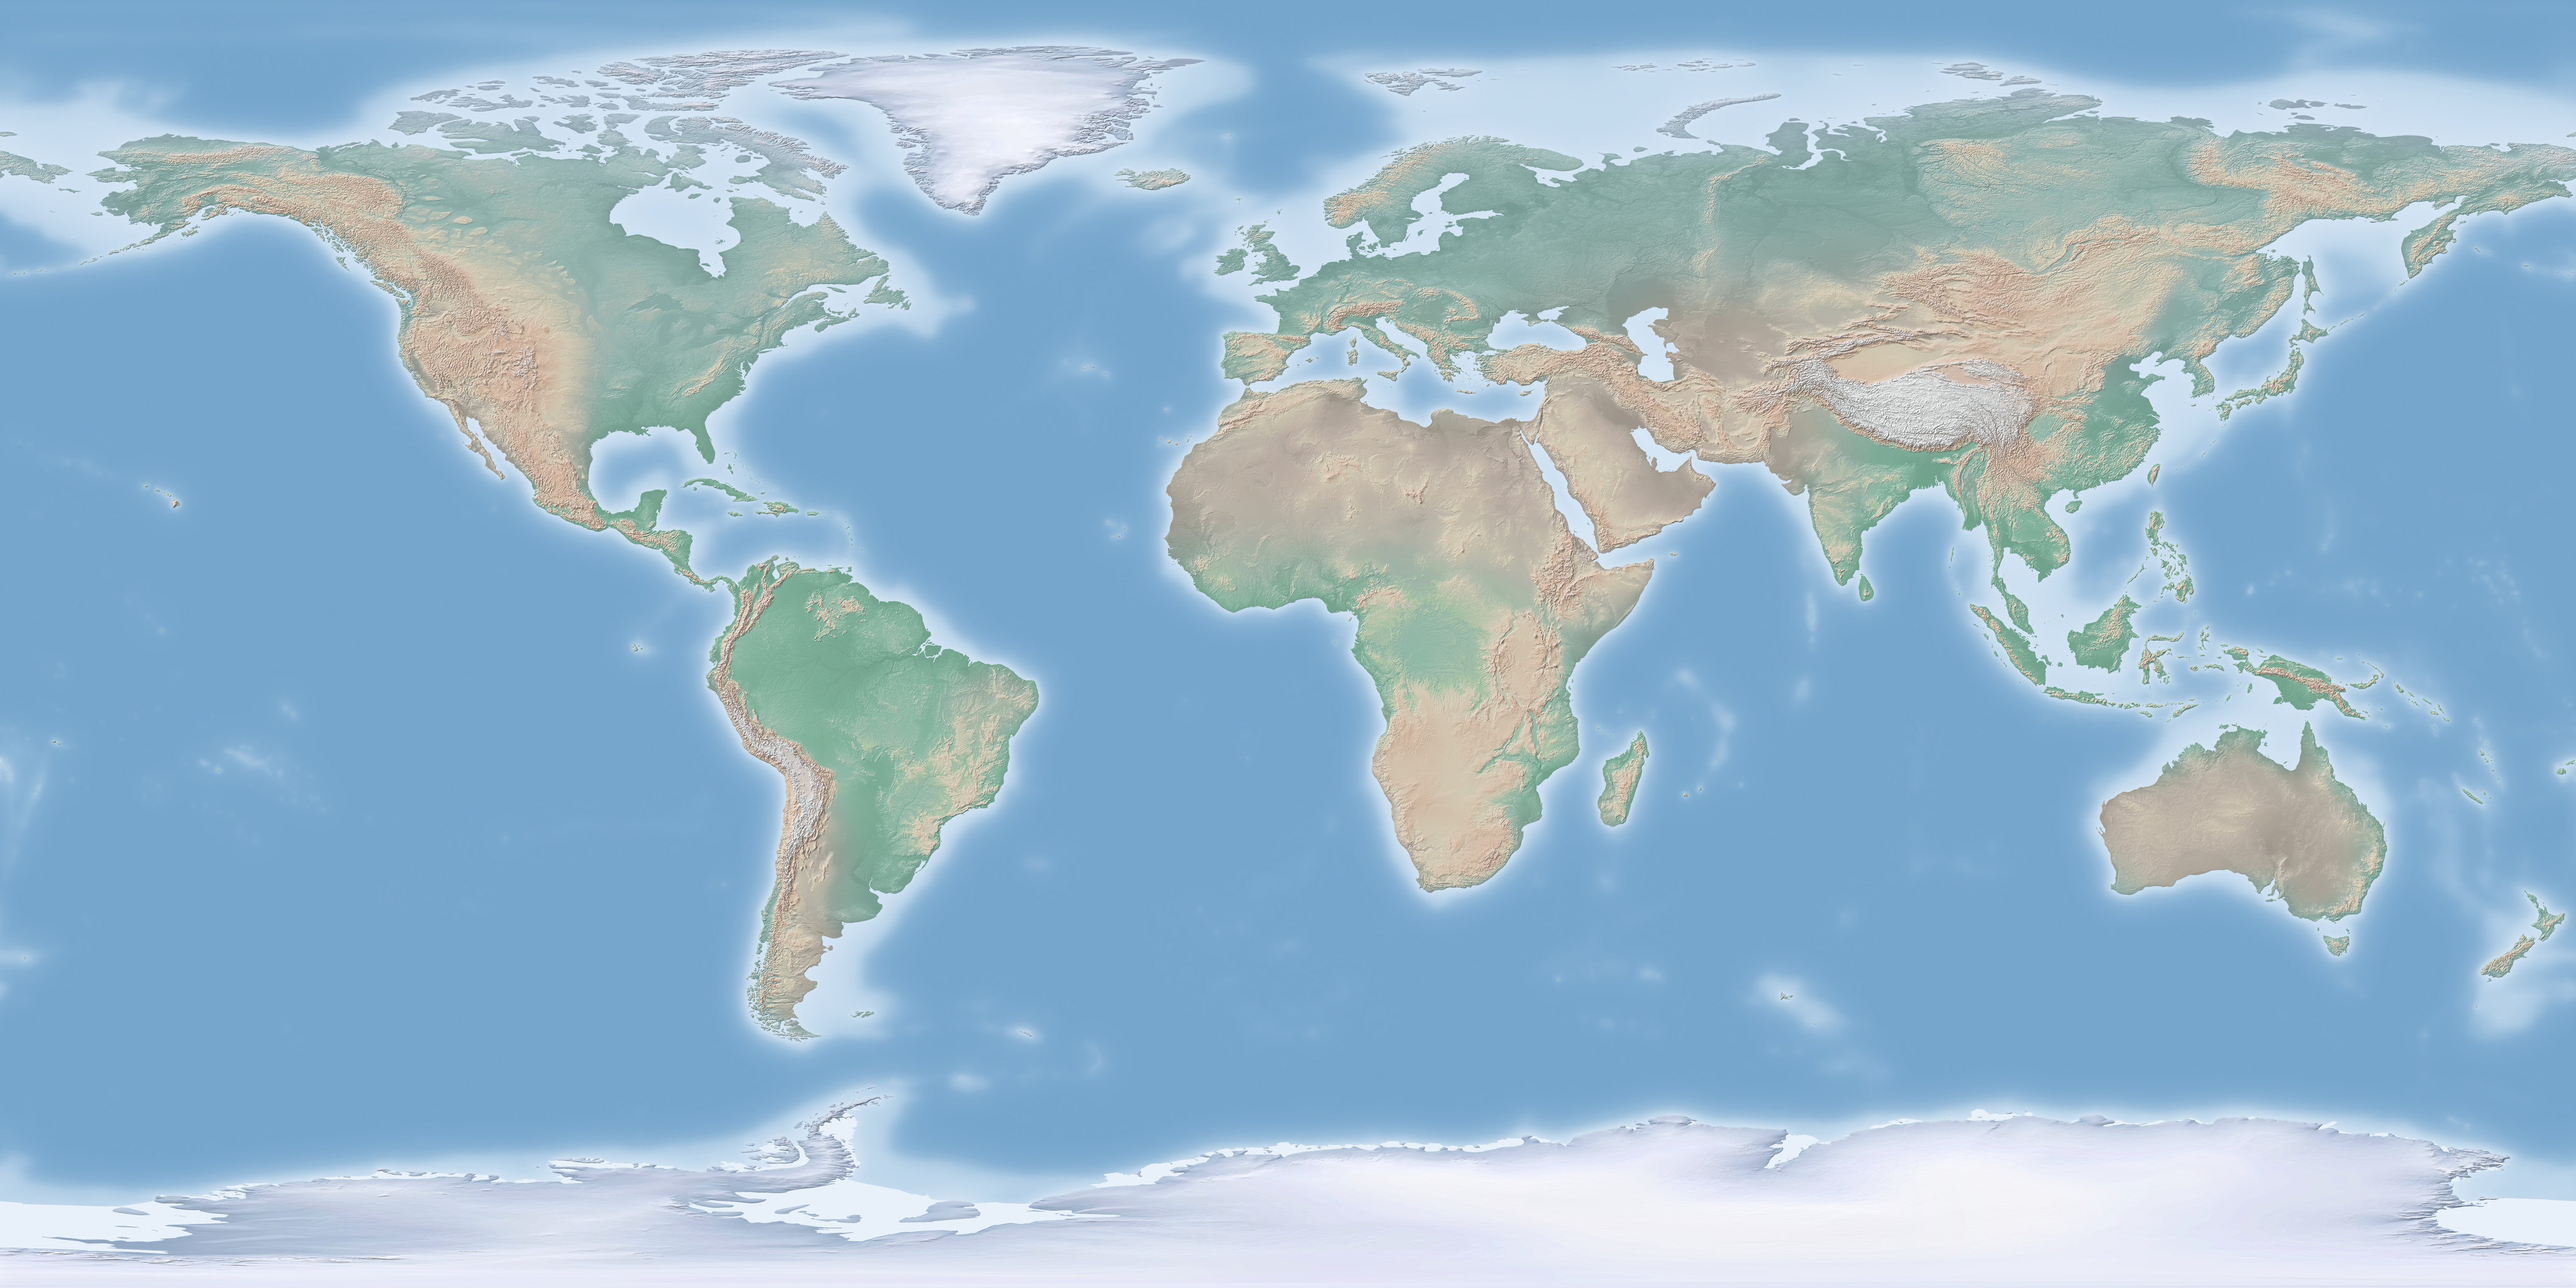
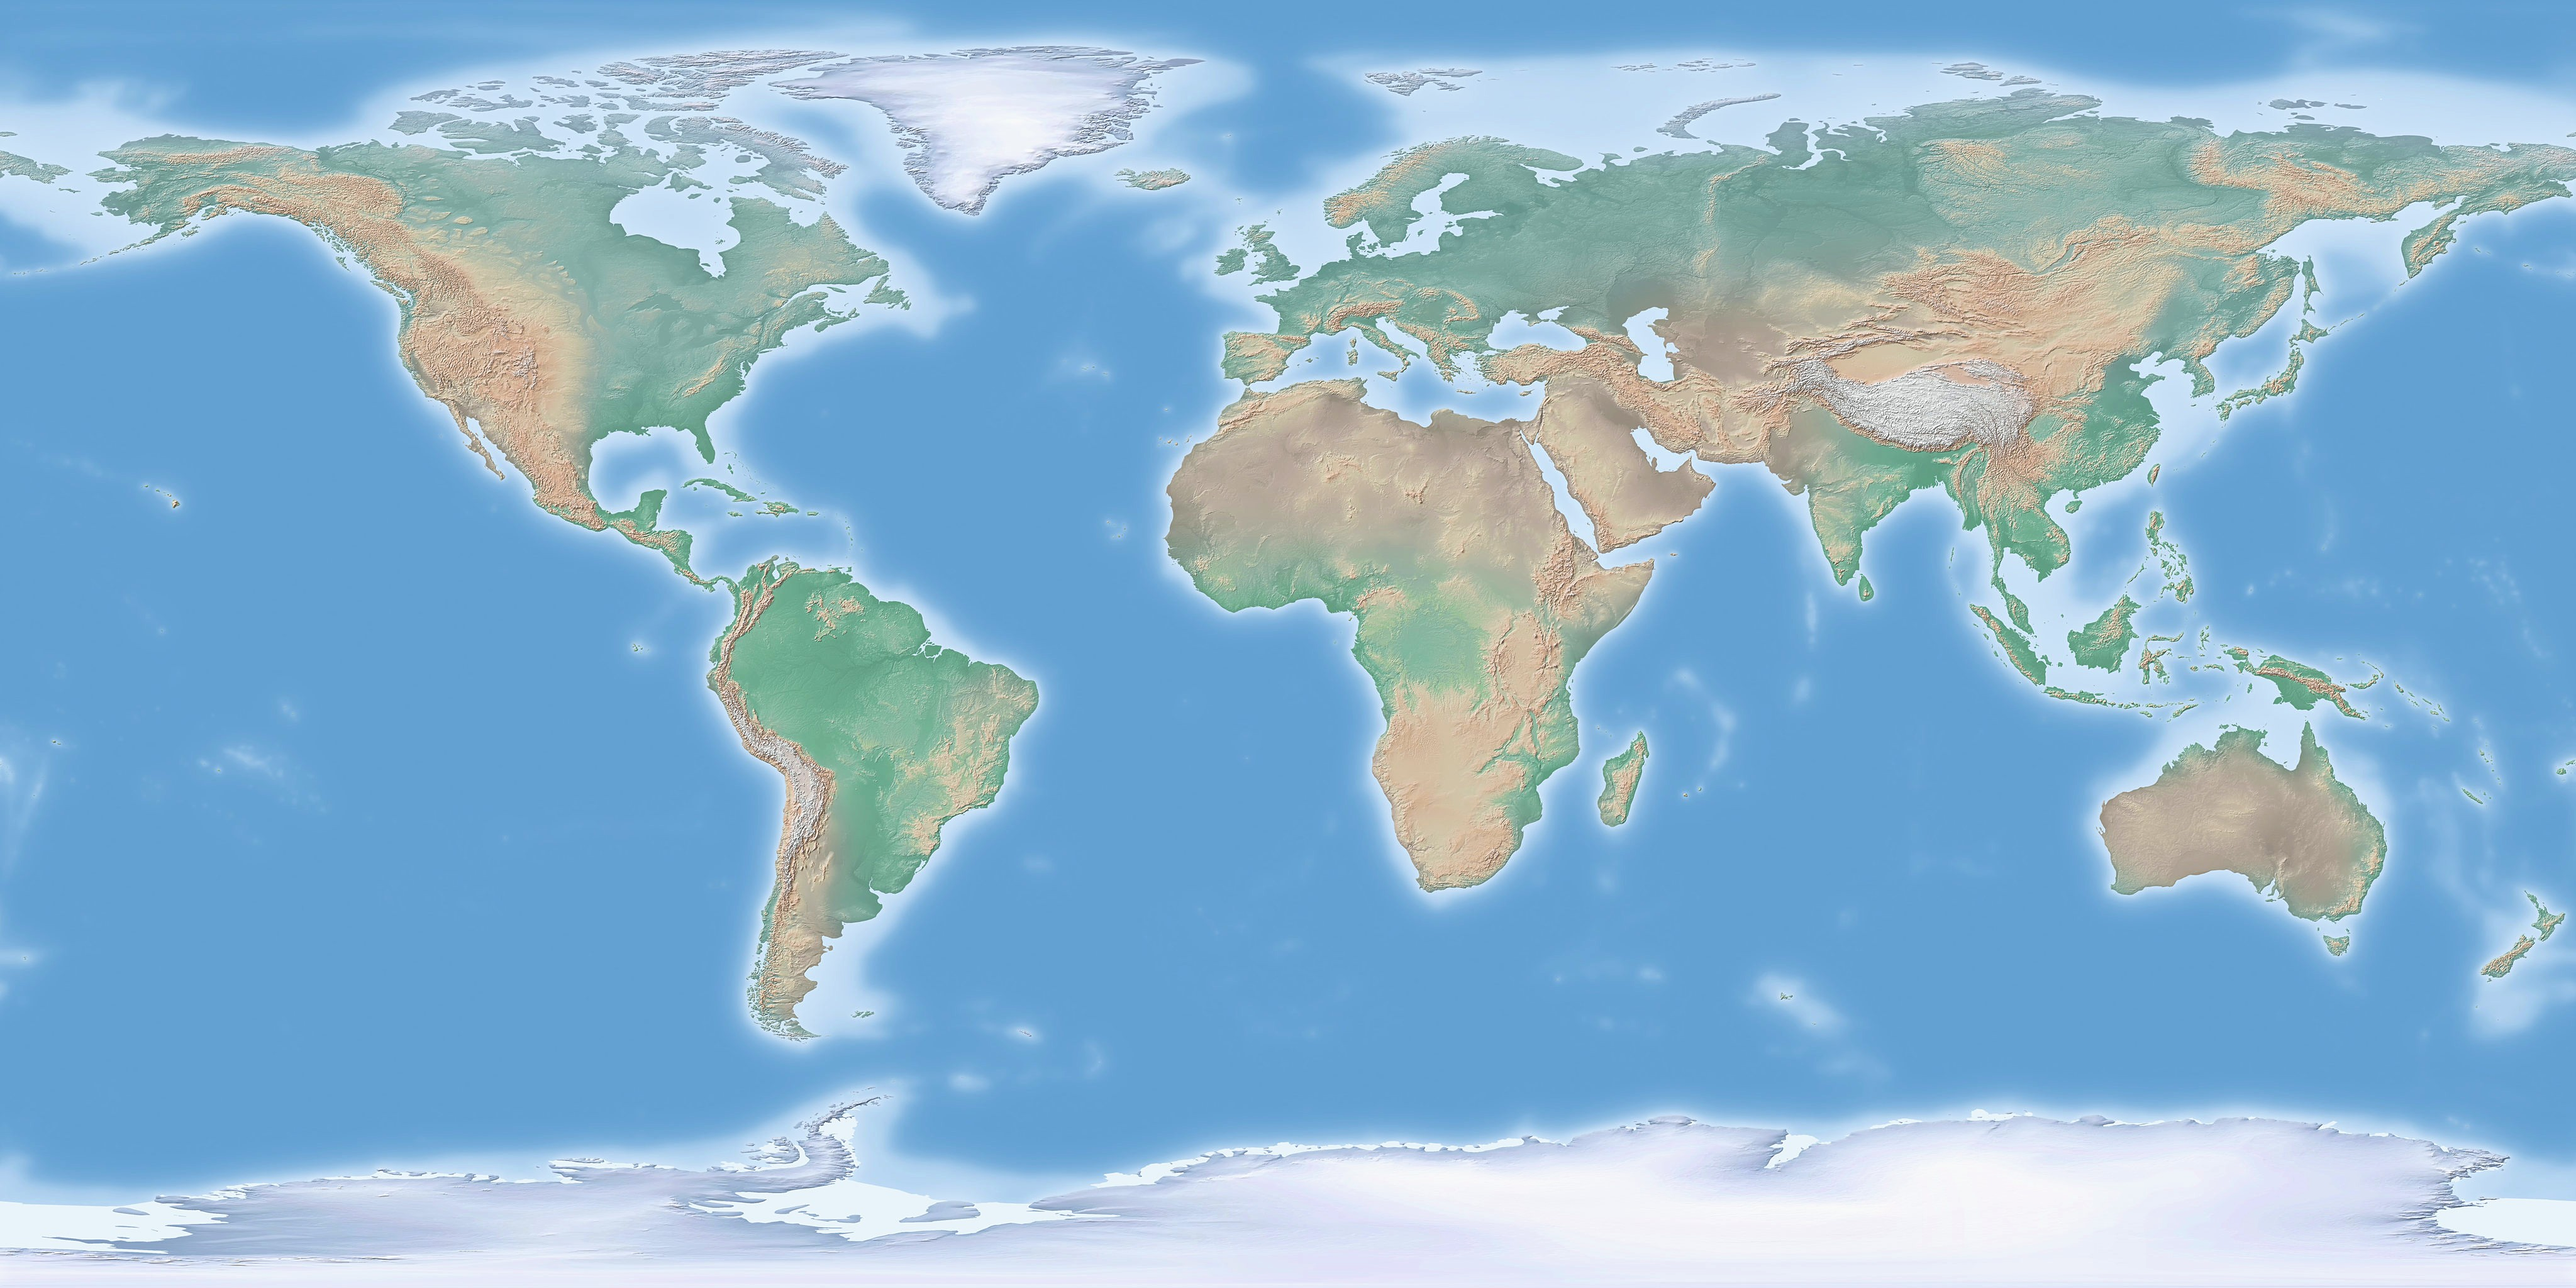
v18

diff --git a/index.html b/index.html
@@ -1135,12 +1135,29 @@ const MAP_STYLES = {
   terrain:{
     label:'Terrain', base:'map_terrain.jpg',
     url:(z,x,y)=>`https://server.arcgisonline.com/ArcGIS/rest/services/World_Topo_Map/MapServer/tile/${z}/${y}/${x}`,
-    max:19, credit:'Esri · USGS · NOAA · Base: Natural Earth'
+    max:19, credit:'Esri · USGS · NOAA · Base: Natural Earth',
+    // World_Topo_Map alone barely hints at elevation — it's built as a road
+    // atlas first. Esri's dedicated hillshade, multiplied on top, is what
+    // actually makes slopes and ranges read at a glance.
+    overlay:'terrain-relief', overlayBlend:'multiply', overlayAlpha:0.6
   },
   streets:{
     label:'Atlas', base:'map_atlas.jpg',
     url:(z,x,y)=>`https://server.arcgisonline.com/ArcGIS/rest/services/Canvas/World_Dark_Gray_Base/MapServer/tile/${z}/${y}/${x}`,
-    max:16, credit:'Esri · HERE · Garmin · Base: Natural Earth'
+    max:16, credit:'Esri · HERE · Garmin · Base: Natural Earth',
+    // The "Base" service is deliberately blank — Esri ships it as a canvas
+    // meant to be paired with a Reference layer carrying every label, road
+    // and border. Without it, it's just grey shapes, which is what made
+    // this style look broken.
+    overlay:'streets-labels', overlayBlend:'source-over', overlayAlpha:1
+  },
+  'terrain-relief':{
+    url:(z,x,y)=>`https://server.arcgisonline.com/ArcGIS/rest/services/Elevation/World_Hillshade/MapServer/tile/${z}/${y}/${x}`,
+    max:23
+  },
+  'streets-labels':{
+    url:(z,x,y)=>`https://server.arcgisonline.com/ArcGIS/rest/services/Canvas/World_Dark_Gray_Reference/MapServer/tile/${z}/${y}/${x}`,
+    max:16
   }
 };
 let mapStyle='satellite';
@@ -1384,20 +1401,37 @@ function drawTiles(force){
       const want=getTile(mapStyle,Z,wx,ty);
       if(want.__ready){
         try{ tctx.drawImage(want,dx,dy,dw,dh); drew++; }catch(e){}
-        continue;
-      }
-      if(!want.__failed) waiting=true;
-
-      // Nothing should ever render as a black hole. Prefer a coarser tile we
-      // already hold; failing that, take the region straight out of the
-      // whole-world image, which is always present and works offline.
-      const alt=bestAvailable(mapStyle,Z,wx,ty);
-      if(alt){
-        const f=Math.pow(2,Z-alt.z);
-        const sxp=(wx-alt.x*f)/f*256, syp=(ty-alt.y*f)/f*256, sp=256/f;
-        try{ tctx.drawImage(alt.im, sxp,syp,sp,sp, dx,dy,dw,dh); drew++; }catch(e){}
       } else {
-        drawFromWorldImage(wx,ty,Z,n,dx,dy,dw,dh);
+        if(!want.__failed) waiting=true;
+
+        // Nothing should ever render as a black hole. Prefer a coarser tile we
+        // already hold; failing that, take the region straight out of the
+        // whole-world image, which is always present and works offline.
+        const alt=bestAvailable(mapStyle,Z,wx,ty);
+        if(alt){
+          const f=Math.pow(2,Z-alt.z);
+          const sxp=(wx-alt.x*f)/f*256, syp=(ty-alt.y*f)/f*256, sp=256/f;
+          try{ tctx.drawImage(alt.im, sxp,syp,sp,sp, dx,dy,dw,dh); drew++; }catch(e){}
+        } else {
+          drawFromWorldImage(wx,ty,Z,n,dx,dy,dw,dh);
+        }
+      }
+
+      // Some styles layer a second, purely visual tile on top of the base —
+      // a hillshade for Terrain, place/road labels for Atlas. It rides
+      // along on the same grid and is only ever a bonus: if it hasn't
+      // arrived yet the base tile underneath already reads fine on its own.
+      if(style.overlay){
+        const ov=getTile(style.overlay,Z,wx,ty,true);
+        if(ov.__ready){
+          try{
+            tctx.save();
+            tctx.globalCompositeOperation=style.overlayBlend||'source-over';
+            tctx.globalAlpha=style.overlayAlpha!=null?style.overlayAlpha:1;
+            tctx.drawImage(ov,dx,dy,dw,dh);
+            tctx.restore();
+          }catch(e){}
+        }
       }
     }
   }
@@ -1681,8 +1715,12 @@ function setMapStyle(s){
   // tiles, so the map sits on low-res fallback imagery longer than it needs
   // to (part of what reads as "mixed" tiles right after switching).
   tileQueue.length=0; tileQueueLow.length=0;
-  loadBaseTexture(s);          // shipped image shows instantly…
-  buildGlobeSkin(s);           // …then the real tile imagery replaces it
+  // The shipped image for each style is already a proper high-resolution
+  // equirectangular map — loadBaseTexture puts it up immediately. (This
+  // used to be followed by buildGlobeSkin(), which replaced it a moment
+  // later with a soft, low-zoom tile mosaic; that made every style look
+  // worse than the file sitting right next to index.html, so it's gone.)
+  loadBaseTexture(s);
   if(viewMode==='flat') drawTiles(true);
 }
 
@@ -1996,8 +2034,10 @@ document.getElementById('menu-selections').addEventListener('click',()=>{ closeM
 
 
 /* ================= CLUSTERS =================
-   Tapping a group zooms toward it so its pins separate at their real
-   coordinates. Once the map is as close as it goes, list them instead. */
+   Tapping a group steps the view in toward it — each press zooms a bit
+   closer, the way a real map does, rather than jumping straight to the
+   final scale. Once a press can no longer move in any further and the
+   pins still can't be told apart, list them instead. */
 function openCluster(ci){
   const members=lastClusters[ci];
   if(!members||members.length<2) return;
@@ -2032,14 +2072,26 @@ function openCluster(ci){
     ? Math.log2(groupPx*360/(256*closest))
     : Infinity;
 
-  // Only fall back to a list when even the closest the map goes cannot
-  // separate them — sounds recorded a few metres apart, for instance.
-  if(!isFinite(needZ) || needZ>maxZ){ showClusterList(members); return; }
+  // Where the view sits right now, on whichever mode we're in — the next
+  // step is measured from here, not from scratch each time.
+  const curZ = viewMode==='flat' ? flatZ : globeZoomToFlatZ();
 
   // Zoom so the whole group comfortably fills the view, but at least far
-  // enough to break it apart.
+  // enough to eventually break it apart.
   const fitZ=Math.log2(360*W/(256*Math.max(spanLng, spanLat)*1.8));
-  const targetZ=Math.min(maxZ, Math.max(needZ+0.4, isFinite(fitZ)?fitZ:needZ+0.4));
+  const idealZ=Math.max(isFinite(needZ)?needZ+0.4:curZ, isFinite(fitZ)?fitZ:curZ, curZ);
+  const ceiling=Math.min(maxZ, idealZ);
+
+  // One step per tap — enough to feel like real progress without
+  // overshooting straight to the destination.
+  const STEP=2.4;
+  const targetZ=Math.min(ceiling, curZ+STEP);
+
+  // Only once a tap can no longer move the view forward, and the group
+  // still can't be separated at this style's closest zoom, give up on
+  // zooming and list them instead (sounds recorded a few metres apart,
+  // for instance, closer together than any basemap tile can resolve).
+  if(targetZ<=curZ+0.08 && (!isFinite(needZ) || needZ>maxZ)){ showClusterList(members); return; }
 
   if(viewMode==='flat'){
     flyFlatTo(lat,lng,targetZ);
@@ -4000,7 +4052,6 @@ document.getElementById('storage-warn-close').addEventListener('click',()=>{
   img.src=(MAP_STYLES[mapStyle]&&MAP_STYLES[mapStyle].base)||'earth.jpg';
   document.querySelectorAll('[data-style]').forEach(el=>
     el.classList.toggle('active', el.getAttribute('data-style')===mapStyle));
-  setTimeout(()=>buildGlobeSkin(mapStyle), 300);    // right after first paint
   db=await openDB();
   storageOK=!!db;
   let localCache=[];
